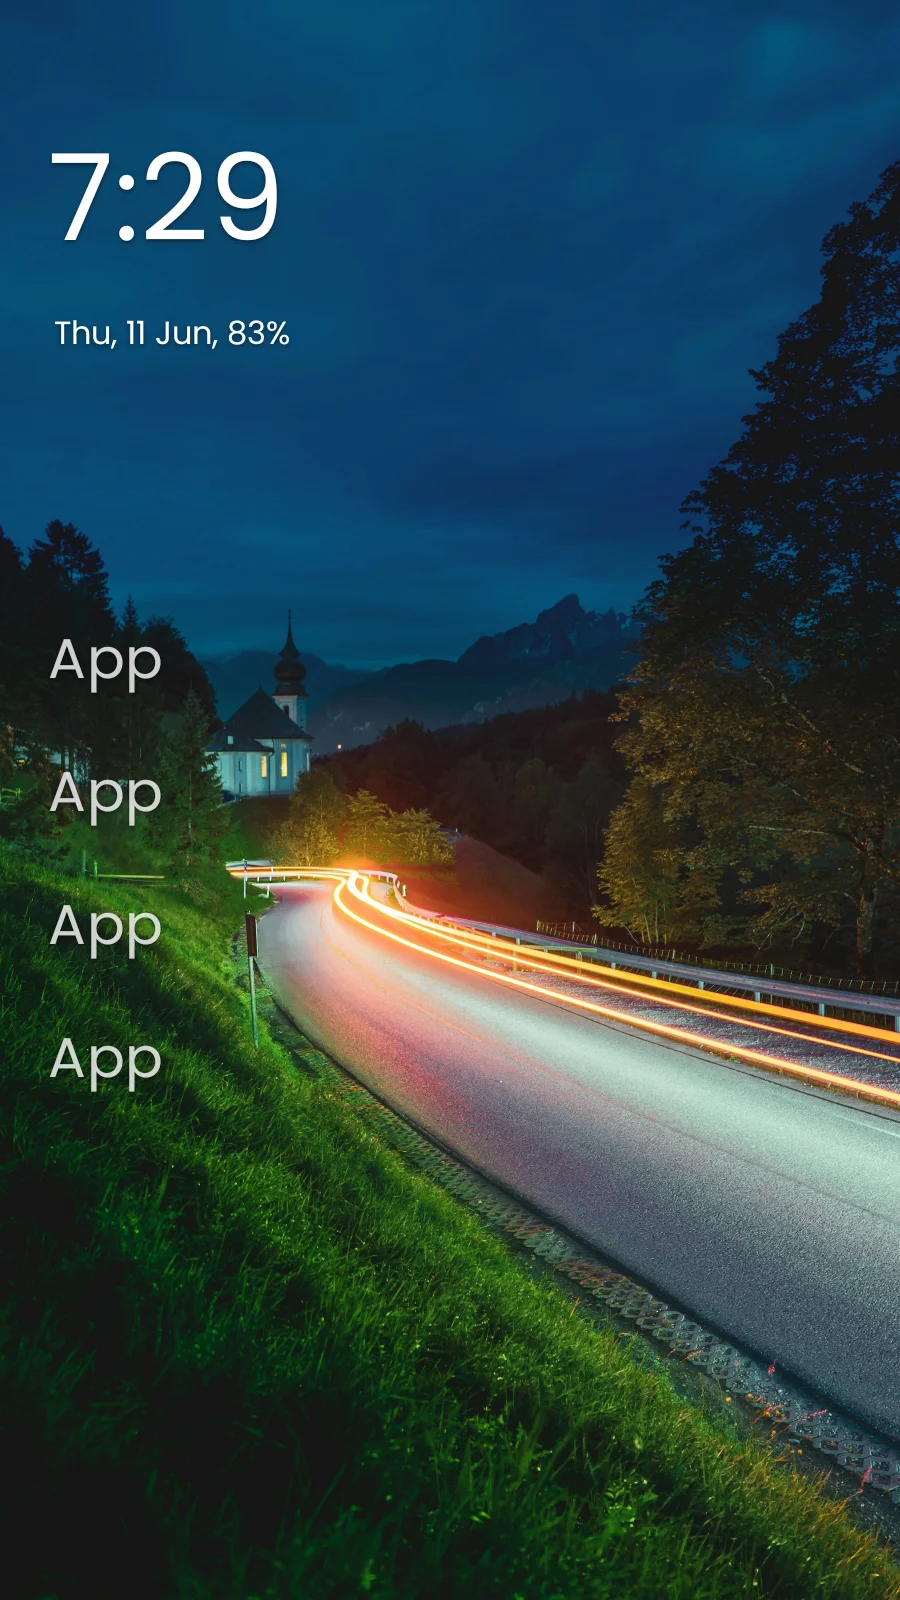
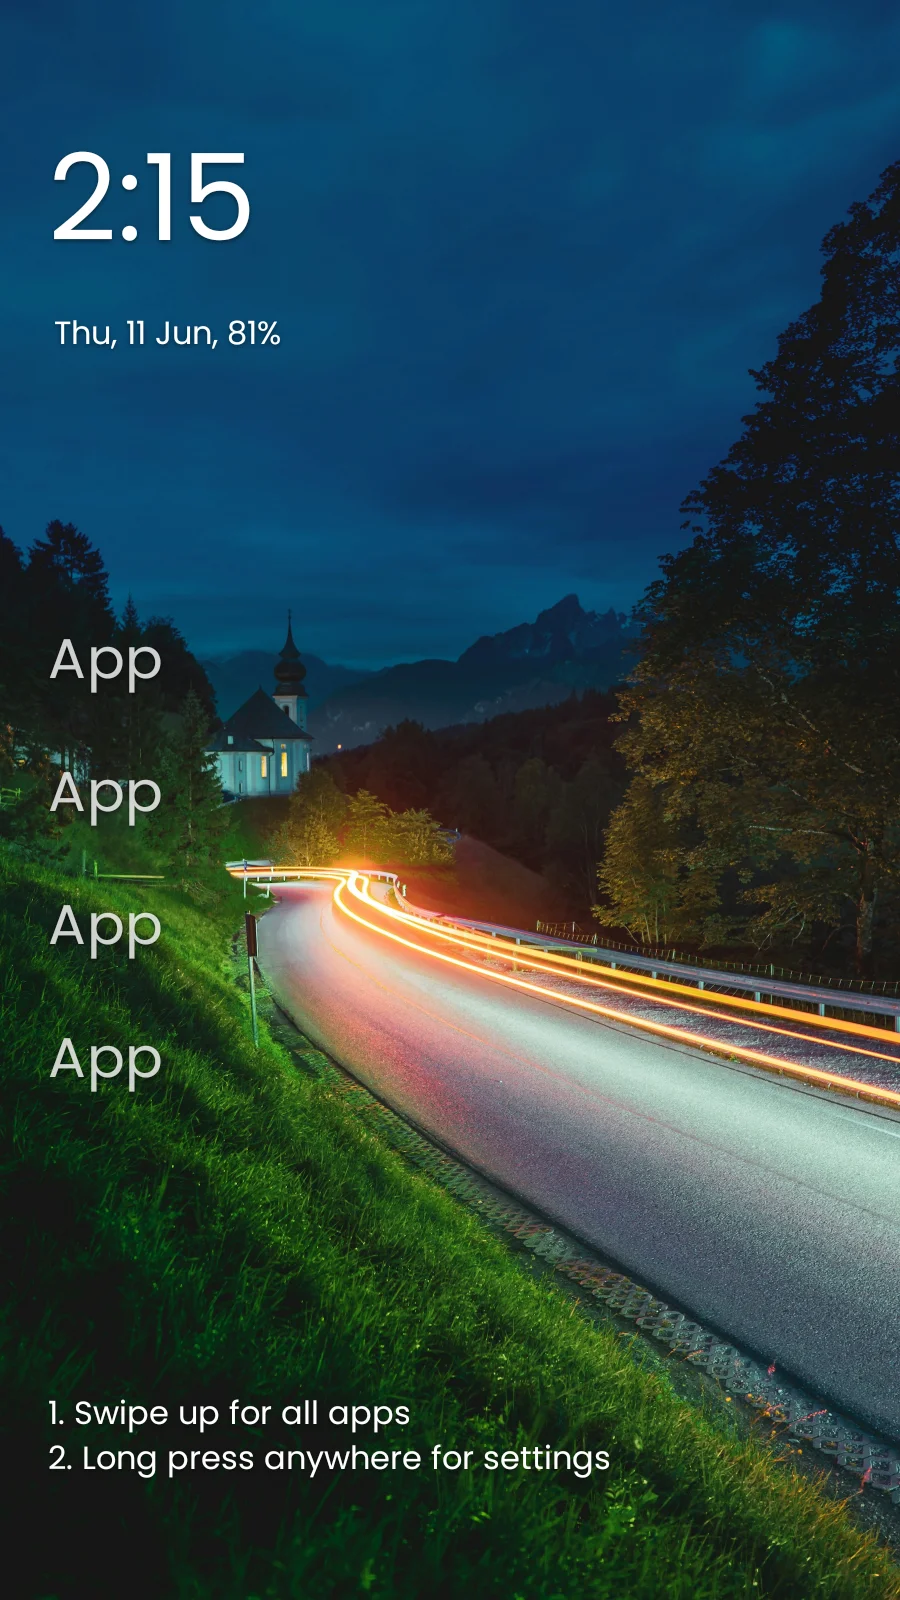
feat: v6.6.0 â€” transparent settings, Outfit font, selection animation, About dialog
- Settings: removed dark card shapes, transparent sections with dim overlay (450ms fade in/out)
- Font: added Outfit as new font option (geometric sans-serif, Poppins alternative)
- App grid: increased font size to 21sp (1.3x) for better readability
- Dzikir card: replaced bounce animation with smooth alpha fade-in
- Note/Todo: added fade in/out animation on item selection (100ms in, 200ms out)
- Note toolbar: responsive spacing (margins 30dpâ†’20dp, buttons 42dpâ†’38dp)
- About: in-app dialog with app info and FAQ (no longer opens external URL)
- Screenshots: refreshed home, app drawer, settings in README
- APK: release build 2.5MB (R8 + shrinkResources)

Changed region(s): [[0.0622, 0.875, 0.6844, 0.9375], [0.0622, 0.0938, 0.3111, 0.1562], [0.28, 0.1875, 0.3111, 0.2188]]

diff --git a/app/src/main/java/app/sakinalauncher/ui/SettingsFragment.kt b/app/src/main/java/app/sakinalauncher/ui/SettingsFragment.kt
@@ -16,6 +16,7 @@ import android.view.View
 import android.view.ViewGroup
 import android.view.WindowInsets
 import android.widget.Toast
+import androidx.activity.addCallback
 import androidx.appcompat.app.AppCompatDelegate
 import androidx.core.os.bundleOf
 import androidx.core.os.LocaleListCompat
@@ -108,6 +109,31 @@ class SettingsFragment : Fragment(), View.OnClickListener, View.OnLongClickListe
         initObservers()
 
         app.sakinalauncher.helper.FontHelper.applyFont(binding.root, prefs)
+
+        // Fade the dim overlay in when entering settings, and fade it back out
+        // on exit. Duration is deliberately long enough to be clearly visible.
+        binding.settingsDim.alpha = 0f
+        binding.settingsDim.animate()
+            .alpha(1f)
+            .setDuration(SETTINGS_DIM_DURATION)
+            .start()
+
+        requireActivity().onBackPressedDispatcher.addCallback(viewLifecycleOwner) {
+            val dim = _binding?.settingsDim
+            if (dim == null) {
+                isEnabled = false
+                requireActivity().onBackPressedDispatcher.onBackPressed()
+                return@addCallback
+            }
+            dim.animate()
+                .alpha(0f)
+                .setDuration(SETTINGS_DIM_DURATION)
+                .withEndAction {
+                    isEnabled = false
+                    if (isAdded) requireActivity().onBackPressedDispatcher.onBackPressed()
+                }
+                .start()
+        }
     }
 
     override fun onClick(view: View) {
@@ -126,7 +152,7 @@ class SettingsFragment : Fragment(), View.OnClickListener, View.OnLongClickListe
 
         when (view.id) {
             R.id.olauncherHiddenApps -> showHiddenApps()
-            R.id.moreFeatures -> viewModel.showDialog.postValue(Constants.Dialog.PRO_MESSAGE)
+            R.id.moreFeatures -> requireContext().openUrl("https://github.com/Bsraccc1")
             R.id.screenTimeOnOff -> viewModel.showDialog.postValue(Constants.Dialog.DIGITAL_WELLBEING)
             R.id.appInfo -> openAppInfo(requireContext(), Process.myUserHandle(), BuildConfig.APPLICATION_ID)
             R.id.setLauncher -> viewModel.resetLauncherLiveData.call()
@@ -184,7 +210,7 @@ class SettingsFragment : Fragment(), View.OnClickListener, View.OnLongClickListe
 
             R.id.aboutOlauncher -> {
                 prefs.aboutClicked = true
-                requireContext().openUrl(Constants.URL_ABOUT_OLAUNCHER)
+                viewModel.showDialog.postValue(Constants.Dialog.ABOUT)
             }
         }
     }
@@ -276,10 +302,6 @@ class SettingsFragment : Fragment(), View.OnClickListener, View.OnLongClickListe
     }
 
     private fun initObservers() {
-        if (prefs.firstSettingsOpen) {
-            viewModel.showDialog.postValue(Constants.Dialog.ABOUT)
-            prefs.firstSettingsOpen = false
-        }
         viewModel.isOlauncherDefault.observe(viewLifecycleOwner) {
             if (it) {
                 binding.setLauncher.text = getString(R.string.change_default_launcher)
@@ -563,6 +585,7 @@ class SettingsFragment : Fragment(), View.OnClickListener, View.OnLongClickListe
         val values = intArrayOf(
             Constants.FontFamily.SYSTEM,
             Constants.FontFamily.POPPINS,
+            Constants.FontFamily.OUTFIT,
             Constants.FontFamily.SERIF,
             Constants.FontFamily.MONOSPACE,
         )
@@ -1034,5 +1057,6 @@ class SettingsFragment : Fragment(), View.OnClickListener, View.OnLongClickListe
 
     companion object {
         private const val REQUEST_LOCATION_PERMISSION = 901
+        private const val SETTINGS_DIM_DURATION = 450L
     }
 }

diff --git a/app/src/main/java/app/sakinalauncher/ui/DhikrPagerFragment.kt b/app/src/main/java/app/sakinalauncher/ui/DhikrPagerFragment.kt
@@ -4,6 +4,7 @@ import android.os.Bundle
 import android.view.LayoutInflater
 import android.view.View
 import android.view.ViewGroup
+import android.view.animation.DecelerateInterpolator
 import androidx.fragment.app.Fragment
 import app.sakinalauncher.R
 import app.sakinalauncher.data.Constants
@@ -45,7 +46,6 @@ class DhikrPagerFragment : Fragment() {
         initSwipe()
         initTasbihCounter()
         initNavButtons()
-        binding.tasbihCounter.addPressScale(0.94f)
         render()
         app.sakinalauncher.helper.FontHelper.applyFont(binding.root, prefs)
     }
@@ -151,17 +151,13 @@ class DhikrPagerFragment : Fragment() {
     }
 
     private fun animateCounter() {
-        binding.tasbihCounter.animate()
-            .scaleX(1.2f)
-            .scaleY(1.2f)
-            .setDuration(100)
-            .withEndAction {
-                binding.tasbihCounter.animate()
-                    .scaleX(1.0f)
-                    .scaleY(1.0f)
-                    .setDuration(100)
-                    .start()
-            }
+        val counter = _binding?.tasbihCounter ?: return
+        counter.animate().cancel()
+        counter.alpha = 0.4f
+        counter.animate()
+            .alpha(1.0f)
+            .setDuration(250)
+            .setInterpolator(DecelerateInterpolator())
             .start()
     }
 

diff --git a/app/src/main/java/app/sakinalauncher/ui/NotePanelAdapter.kt b/app/src/main/java/app/sakinalauncher/ui/NotePanelAdapter.kt
@@ -94,6 +94,14 @@ class NotePanelAdapter(
             )
             repeatHint.isVisible = row.repeatLabel != null
             repeatHint.text = row.repeatLabel
+            if (!note.isDone) {
+                root.animate().cancel()
+                if (isSelected) {
+                    root.animate().alpha(0.8f).setDuration(100).start()
+                } else {
+                    root.animate().alpha(1f).setDuration(200).start()
+                }
+            }
             root.setOnClickListener { clickListener(note) }
         }
     }
@@ -120,6 +128,14 @@ class NotePanelAdapter(
                 if (todo.isDone) R.drawable.bg_todo_checkbox_done else R.drawable.bg_todo_checkbox
             )
             todoCheckIcon.isVisible = todo.isDone
+            if (!todo.isDone) {
+                root.animate().cancel()
+                if (isSelected) {
+                    root.animate().alpha(0.8f).setDuration(100).start()
+                } else {
+                    root.animate().alpha(1f).setDuration(200).start()
+                }
+            }
             root.setOnClickListener { clickListener(todo) }
         }
     }

diff --git a/app/src/main/java/app/sakinalauncher/helper/FontHelper.kt b/app/src/main/java/app/sakinalauncher/helper/FontHelper.kt
@@ -29,6 +29,9 @@ object FontHelper {
             Constants.FontFamily.POPPINS ->
                 runCatching { ResourcesCompat.getFont(context, R.font.poppins_regular) }.getOrNull()
                     ?: Typeface.SANS_SERIF
+            Constants.FontFamily.OUTFIT ->
+                runCatching { ResourcesCompat.getFont(context, R.font.outfit_regular) }.getOrNull()
+                    ?: Typeface.SANS_SERIF
             Constants.FontFamily.SERIF -> Typeface.SERIF
             Constants.FontFamily.MONOSPACE -> Typeface.MONOSPACE
             else -> Typeface.SANS_SERIF
@@ -39,6 +42,7 @@ object FontHelper {
     fun labelFor(context: Context, fontFamily: Int): String {
         val res = when (fontFamily) {
             Constants.FontFamily.POPPINS -> R.string.font_poppins
+            Constants.FontFamily.OUTFIT -> R.string.font_outfit
             Constants.FontFamily.SERIF -> R.string.font_serif
             Constants.FontFamily.MONOSPACE -> R.string.font_monospace
             else -> R.string.font_system_default

diff --git a/app/src/main/java/app/sakinalauncher/MainActivity.kt b/app/src/main/java/app/sakinalauncher/MainActivity.kt
@@ -198,7 +198,7 @@ class MainActivity : AppCompatActivity() {
         viewModel.showDialog.observe(this) {
             when (it) {
                 Constants.Dialog.ABOUT -> {
-                    showMessageDialog(R.string.app_name, R.string.welcome_to_olauncher_settings, R.string.okay) {
+                    showMessageDialog(R.string.about_title, R.string.about_message, R.string.okay) {
                         binding.messageLayout.visibility = View.GONE
                     }
                 }

diff --git a/app/src/main/java/app/sakinalauncher/data/Constants.kt b/app/src/main/java/app/sakinalauncher/data/Constants.kt
@@ -69,6 +69,7 @@ object Constants {
         const val POPPINS = 1
         const val SERIF = 2
         const val MONOSPACE = 3
+        const val OUTFIT = 4
     }
 
     object CharacterIndicator {

diff --git a/README.md b/README.md
@@ -97,9 +97,9 @@ you actually open every day kept a single swipe away.
 
 <div align="center">
 
-| Home | Notes | Todo | Muslim Center | Focus Timer |
-| :---: | :---: | :---: | :---: | :---: |
-| ![Home](Assets/screenshots/home.webp) | ![Notes](Assets/screenshots/productive_panel.webp) | ![Todo](Assets/screenshots/todo_panel.webp) | ![Muslim Center](Assets/screenshots/muslim_center_latest.webp) | ![Timer](Assets/screenshots/timer_panel_latest.webp) |
+| Home | App Drawer | Settings | Todo | Muslim Center | Focus Timer |
+| :---: | :---: | :---: | :---: | :---: | :---: |
+| ![Home](Assets/screenshots/home.webp) | ![App Drawer](Assets/screenshots/app_drawer.webp) | ![Settings](Assets/screenshots/settings.webp) | ![Todo](Assets/screenshots/todo_panel.webp) | ![Muslim Center](Assets/screenshots/muslim_center_latest.webp) | ![Timer](Assets/screenshots/timer_panel_latest.webp) |
 
 </div>
 